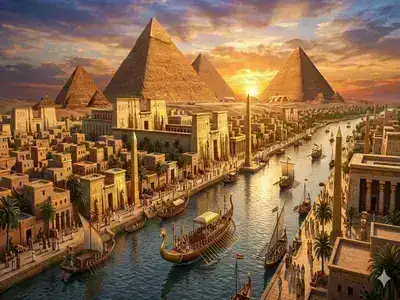
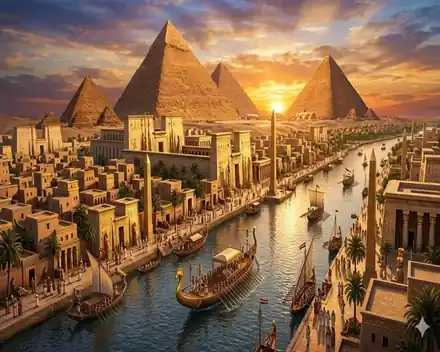
perf: optimize image delivery, LCP load delay, forced reflows, and font weights

diff --git a/index.html b/index.html
@@ -12,10 +12,10 @@
   <link rel="preconnect" href="https://dunastravel-backend-seven.vercel.app" crossorigin>
   <link rel="dns-prefetch" href="https://dunastravel-backend-seven.vercel.app">
   <link rel="preload" as="image" href="/imgs/hero-poster.webp" fetchpriority="high">
-  <link rel="preload" as="image" href="https://res.cloudinary.com/degbrq3ck/image/upload/w_640,h_400,c_fill,q_auto,f_auto/v1783067135/grand_tour_of_turkey_lxb1f4.webp" imagesrcset="https://res.cloudinary.com/degbrq3ck/image/upload/w_640,h_400,c_fill,q_auto,f_auto/v1783067135/grand_tour_of_turkey_lxb1f4.webp 640w, https://res.cloudinary.com/degbrq3ck/image/upload/w_1024,h_500,c_fill,q_auto,f_auto/v1783067135/grand_tour_of_turkey_lxb1f4.webp 1024w, https://res.cloudinary.com/degbrq3ck/image/upload/w_1440,h_600,c_fill,q_auto,f_auto/v1783067135/grand_tour_of_turkey_lxb1f4.webp 1440w" imagesizes="100vw" fetchpriority="high">
-  <link rel="preload" href="https://fonts.googleapis.com/css2?family=Cairo:wght@400;600;700&family=Montserrat:wght@300;400;500;600;700&family=Playfair+Display:ital,wght@0,400;0,600;0,700;1,400&family=Tajawal:wght@400;500;700&display=swap" as="style" onload="this.onload=null;this.rel='stylesheet'">
+  <link rel="preload" as="image" href="https://res.cloudinary.com/degbrq3ck/image/upload/w_640,h_400,c_fill,q_auto:eco,f_auto/v1783067135/grand_tour_of_turkey_lxb1f4.webp" imagesrcset="https://res.cloudinary.com/degbrq3ck/image/upload/w_640,h_400,c_fill,q_auto:eco,f_auto/v1783067135/grand_tour_of_turkey_lxb1f4.webp 640w, https://res.cloudinary.com/degbrq3ck/image/upload/w_1024,h_500,c_fill,q_auto:eco,f_auto/v1783067135/grand_tour_of_turkey_lxb1f4.webp 1024w, https://res.cloudinary.com/degbrq3ck/image/upload/w_1440,h_600,c_fill,q_auto:eco,f_auto/v1783067135/grand_tour_of_turkey_lxb1f4.webp 1440w" imagesizes="100vw" fetchpriority="high">
+  <link rel="preload" href="https://fonts.googleapis.com/css2?family=Cairo:wght@400;600;700&family=Montserrat:wght@400;600;700&family=Playfair+Display:wght@400;700&family=Tajawal:wght@500;700&display=swap" as="style" onload="this.onload=null;this.rel='stylesheet'">
   <noscript>
-    <link href="https://fonts.googleapis.com/css2?family=Cairo:wght@400;600;700&family=Montserrat:wght@300;400;500;600;700&family=Playfair+Display:ital,wght@0,400;0,600;0,700;1,400&family=Tajawal:wght@400;500;700&display=swap" rel="stylesheet">
+    <link href="https://fonts.googleapis.com/css2?family=Cairo:wght@400;600;700&family=Montserrat:wght@400;600;700&family=Playfair+Display:wght@400;700&family=Tajawal:wght@500;700&display=swap" rel="stylesheet">
   </noscript>
   <title>DUNAS TRAVEL</title>
 </head>

diff --git a/src/components/home/HomeExperienceSection.jsx b/src/components/home/HomeExperienceSection.jsx
@@ -1135,11 +1135,11 @@ const HomeExperienceSection = () => {
         {/* Background Image */}
         <div className="absolute inset-0">
           <img
-            src="https://res.cloudinary.com/degbrq3ck/image/upload/w_640,h_400,c_fill,q_60,f_webp/v1783067135/grand_tour_of_turkey_lxb1f4.webp"
+            src="https://res.cloudinary.com/degbrq3ck/image/upload/w_640,h_400,c_fill,q_auto:eco,f_auto/v1783067135/grand_tour_of_turkey_lxb1f4.webp"
             srcSet="
-              https://res.cloudinary.com/degbrq3ck/image/upload/w_640,h_400,c_fill,q_60,f_webp/v1783067135/grand_tour_of_turkey_lxb1f4.webp 640w,
-              https://res.cloudinary.com/degbrq3ck/image/upload/w_1024,h_500,c_fill,q_60,f_webp/v1783067135/grand_tour_of_turkey_lxb1f4.webp 1024w,
-              https://res.cloudinary.com/degbrq3ck/image/upload/w_1440,h_600,c_fill,q_60,f_webp/v1783067135/grand_tour_of_turkey_lxb1f4.webp 1440w
+              https://res.cloudinary.com/degbrq3ck/image/upload/w_640,h_400,c_fill,q_auto:eco,f_auto/v1783067135/grand_tour_of_turkey_lxb1f4.webp 640w,
+              https://res.cloudinary.com/degbrq3ck/image/upload/w_1024,h_500,c_fill,q_auto:eco,f_auto/v1783067135/grand_tour_of_turkey_lxb1f4.webp 1024w,
+              https://res.cloudinary.com/degbrq3ck/image/upload/w_1440,h_600,c_fill,q_auto:eco,f_auto/v1783067135/grand_tour_of_turkey_lxb1f4.webp 1440w
             "
             sizes="100vw"
             alt="Search tours and holiday packages background"
@@ -1470,7 +1470,7 @@ const HomeExperienceSection = () => {
       </section>
 
       {/* Destination Tours Marquee Section */}
-      <section className="py-12 bg-ivory-100 dark:bg-obsidian-950 overflow-hidden relative content-auto">
+      <section className="py-12 bg-ivory-100 dark:bg-obsidian-950 overflow-hidden relative" style={{ contentVisibility: 'auto', containIntrinsicSize: '1px 500px' }}>
         <div className="container mx-auto px-6">
           <div className="text-center mb-12 max-w-3xl mx-auto">
             <span className="text-gold-600 dark:text-gold-400 uppercase tracking-widest text-caption block mb-3 font-semibold">

diff --git a/src/App.jsx b/src/App.jsx
@@ -237,9 +237,16 @@ const ScrollProgressBar = React.memo(function ScrollProgressBar() {
 
     measureHeight();
 
+    let resizeObserver = null;
+    if (typeof ResizeObserver !== 'undefined' && document.body) {
+      resizeObserver = new ResizeObserver(() => {
+        measureHeight();
+      });
+      resizeObserver.observe(document.body);
+    }
+
     const updateProgress = () => {
       if (!barRef.current) return;
-      if (docHeight <= 0) measureHeight();
       const scrollY = window.scrollY || window.pageYOffset;
       const progress = docHeight > 0 ? Math.min(Math.max(scrollY / docHeight, 0), 1) : 0;
       barRef.current.style.transform = `scaleX(${progress})`;
@@ -258,6 +265,7 @@ const ScrollProgressBar = React.memo(function ScrollProgressBar() {
     return () => {
       window.removeEventListener('scroll', handleScroll);
       window.removeEventListener('resize', measureHeight);
+      if (resizeObserver) resizeObserver.disconnect();
     };
   }, []);
 
